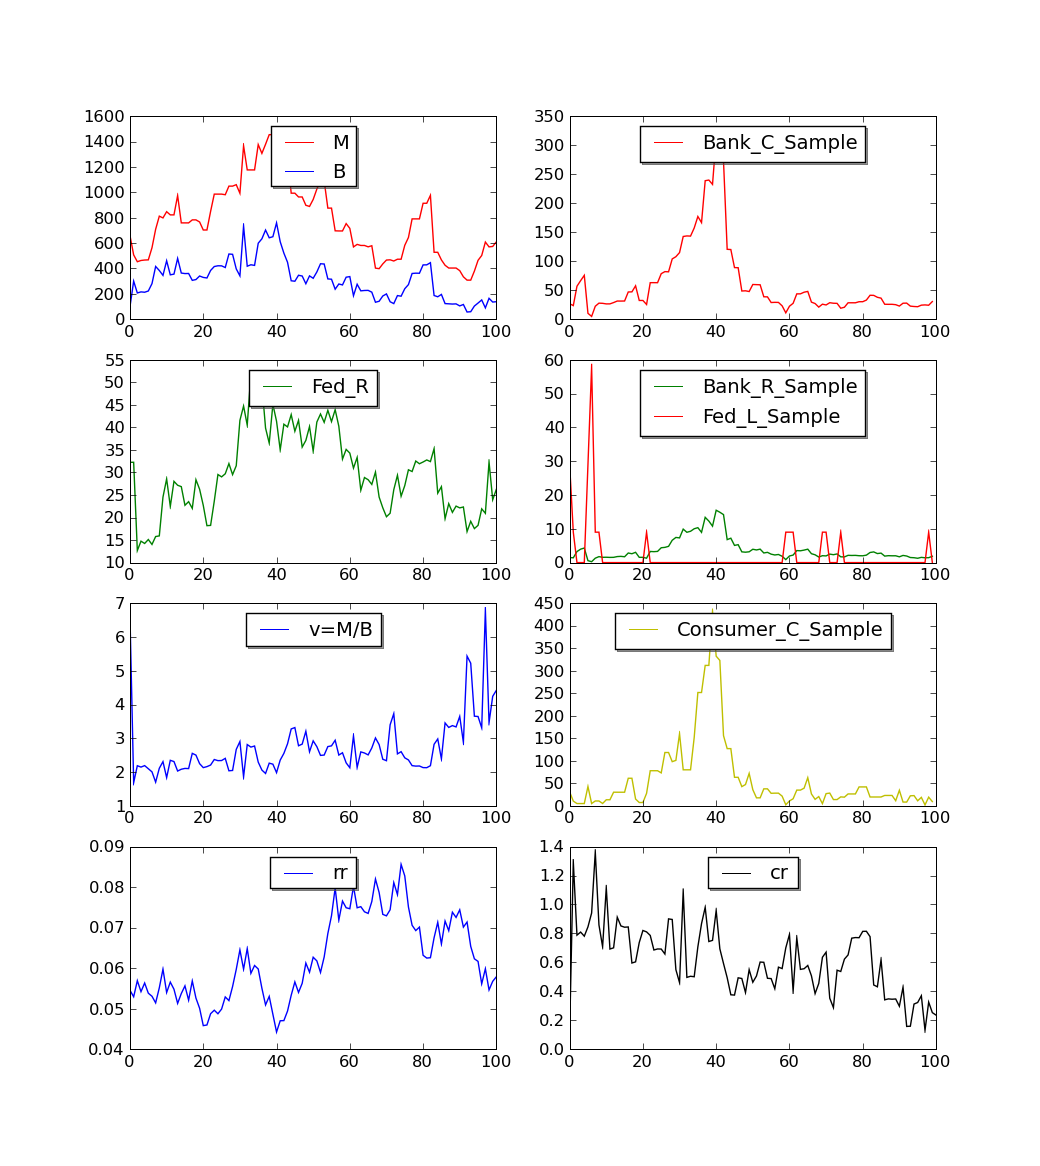
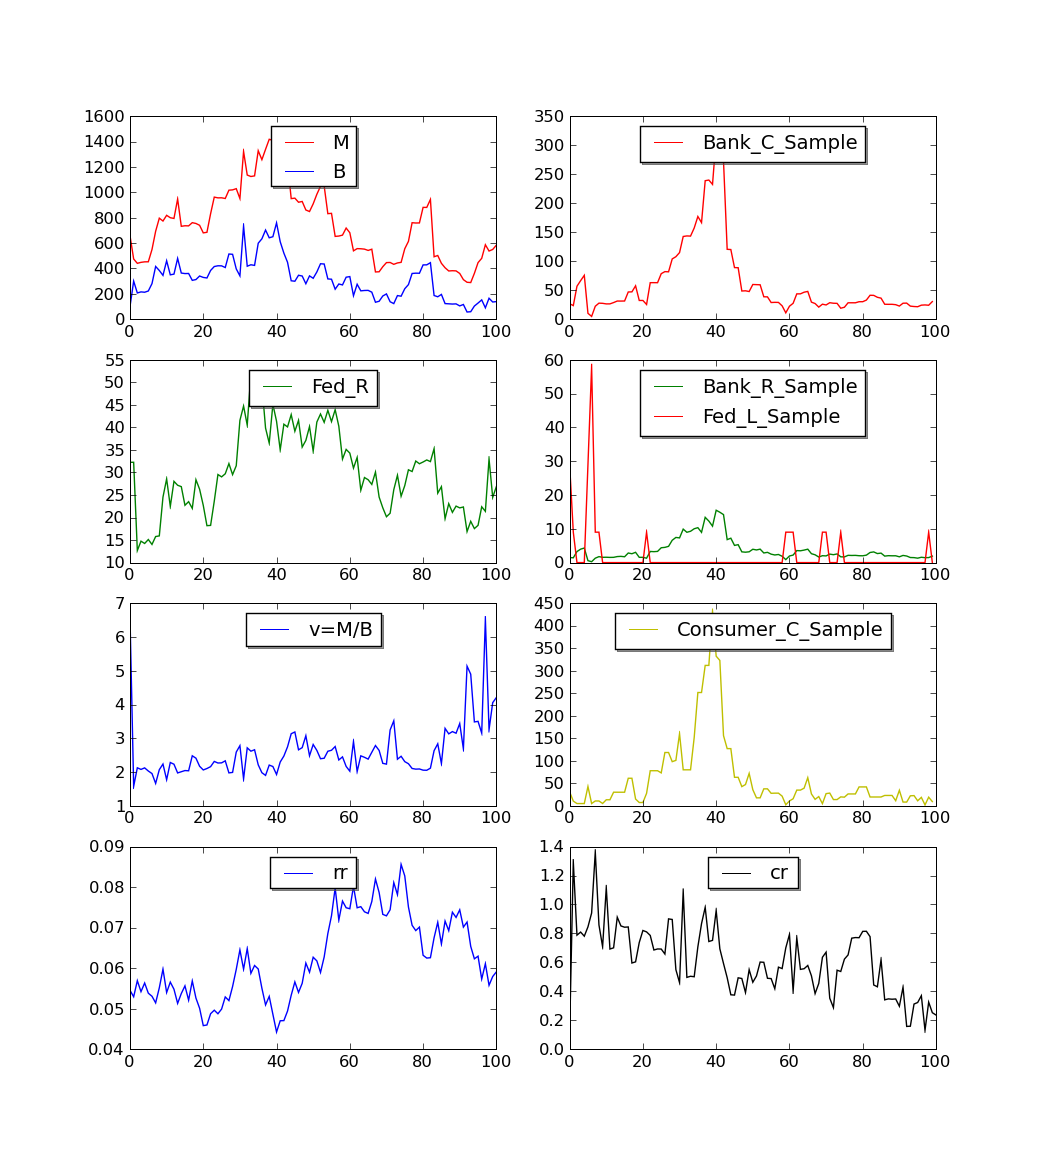
* Submission 1

diff --git a/src/p2.py b/src/p2.py
@@ -1,3 +1,12 @@
+#===============================================================================
+# Part A for Assignment 1, Financial Technology
+# Yi Wang    
+#    yw2298@columbia.edu 
+# Yuan Wang
+#    yw2326@columbia.edu
+#
+#===============================================================================
+
 from time import localtime, strftime
 import sys
 import random
@@ -51,7 +60,8 @@ Consumer_C =[0,0,0,0,0]
 for i in range(Nc):
     Consumer_C[i] = Total_Consumer_C_init / 5
 
-GDP = 0.1
+GDP_max = 0.1
+GDP_min = -0.03
 
 # Bank init
 #===============================================================================
@@ -176,13 +186,17 @@ for step in range(Ntime):
     #===============================================================================
     for i in range(Nb):
         diff = (Bank_C[i]-Bank_C_prev[i])/Bank_C_prev[i]
-        if diff > GDP or diff< -GDP:
-            Bank_C[i] = Bank_C_prev[i]*(1+np.sign(diff)*GDP)
+        if diff > GDP_max:
+            Bank_C[i] = Bank_C_prev[i]*(1+GDP_max)
+        if diff < GDP_min:
+            Bank_C[i] = Bank_C_prev[i]*(1+GDP_min)
             
     for i in range(Nc):
         diff = (Consumer_C[i]-Consumer_C_prev[i])/Consumer_C_prev[i]
-        if diff > GDP or diff< -GDP:
-            Consumer_C[i] = Consumer_C_prev[i]*(1+np.sign(diff)*GDP)
+        if diff > GDP_max:
+            Consumer_C[i] = Consumer_C_prev[i]*(1+GDP_max)
+        if diff < GDP_min:
+            Consumer_C[i] = Consumer_C_prev[i]*(1+GDP_min)
 
     #===============================================================================
     # find new M B
@@ -273,7 +287,7 @@ for i in range(Ntime):
 # Chart
 #===============================================================================
 
-fig = plt.figure()
+fig = plt.figure(2)
 ax = fig.add_subplot(421)
 ax.plot(M, 'r-',B,'b-')
 ax.legend(('M', 'B'), shadow = True,loc='upper center')

diff --git a/src/p1.py b/src/p1.py
@@ -1,3 +1,11 @@
+#===============================================================================
+# Part A for Assignment 1, Financial Technology
+# Yi Wang    
+#    yw2298@columbia.edu 
+# Yuan Wang
+#    yw2326@columbia.edu
+#===============================================================================
+
 from time import localtime, strftime
 import sys
 import random
@@ -51,7 +59,6 @@ Consumer_C =[0,0,0,0,0]
 for i in range(Nc):
     Consumer_C[i] = Total_Consumer_C_init / 5
 
-GDP = 0.05
 
 # Bank init
 #===============================================================================
@@ -208,12 +215,7 @@ for step in range(Ntime):
         tempR = rr[step+1]*(Bank_R[b]+Bank_C[b])
         Bank_C[b] = Bank_C[b] + Bank_R[b] - tempR
         Bank_R[b] = tempR
-            
-    #===============================================================================
-    # Bank and Comsumer Assert Change GDP
-    #===============================================================================
-    
-    
+                
     #===============================================================================
     # Bank & Consumer Sample  
     #===============================================================================
@@ -256,7 +258,7 @@ for i in range(Ntime):
 # Chart
 #===============================================================================
 
-fig = plt.figure()
+fig = plt.figure(1)
 ax = fig.add_subplot(421)
 ax.plot(M, 'r-',B,'b-')
 ax.legend(('M', 'B'), shadow = True,loc='upper center')
